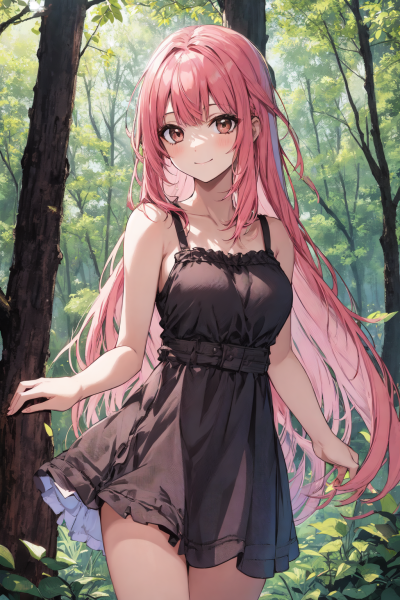
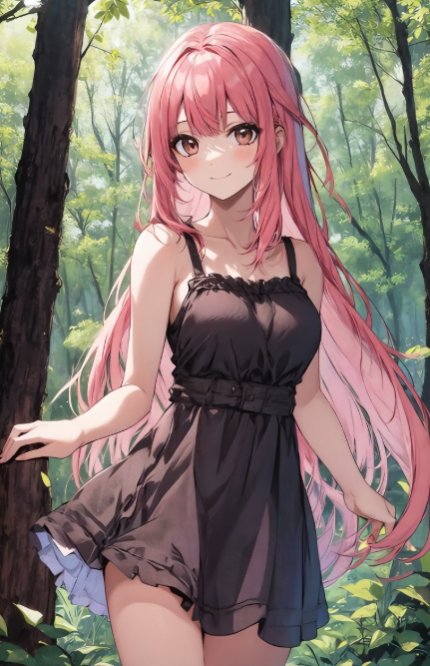
feat(editor): 剧本选择框加宽、关闭键移至最右；默认 eldoria 肖像改用 AppData 玩家版本并移除旧 svg
- 剧本编辑器头部 select 加宽（max-width 320px / min-width 240px）
- 头部按钮顺序：新建 → 另存为 → 删除 → Revert → 保存剧本包 → 关闭（关闭在最右）
- stories/default/eldoria.json 的 rowan/vex portraitRef 从 .svg 改为 .png，并复制 AppData 中用户上传的三张肖像（seraphina/rowan/vex）覆盖默认资产目录，删除 rowan.svg/vex.svg

diff --git a/public/index.html b/public/index.html
@@ -12,7 +12,7 @@
 <dialog id="connection-modal"><form method="dialog"><header><h3>模型连接</h3><button type="button" data-dialog-close>关闭</button></header><p id="provider-unconfigured-hint" class="provider-unconfigured-hint" hidden>⚠ 尚未配置可用的模型供应商。请先点「管理供应商」新建并填写 API Key，否则无法使用模型功能。</p><label>默认角色服务<select id="provider-select"></select></label><label>默认角色模型<select id="model-select"></select></label><label>导演服务<select id="director-provider-select"></select></label><label>导演模型<select id="director-model-select"></select></label><label>导演思维链<select id="director-thinking"><option value="off">关闭</option><option value="brief">简略</option><option value="standard">标准</option><option value="deep">深度</option></select></label><button id="refresh-models" value="default">获取可用模型</button><div class="provider-form-actions"><button id="provider-manage" type="button">管理供应商</button></div></form></dialog><dialog id="provider-manager-modal"><div class="provider-manager-panel"><header><h3>配置供应商</h3><button type="button" id="provider-manager-back">返回</button></header><div class="provider-manager-toolbar"><button type="button" id="provider-create" class="primary">＋ 新建供应商</button></div><div id="provider-list" class="provider-list"><p class="hint">加载中…</p></div></div></dialog><dialog id="provider-edit-modal"><form method="dialog"><header><h3 id="provider-edit-title">新建供应商</h3><button type="button" data-dialog-close>关闭</button></header><label>配置名称<input id="provider-name" placeholder="如：DeepSeek 官方"></label><label>接口地址<input id="provider-url" placeholder="https://api.example.com/v1"></label><label>API Key<input id="provider-key" type="password" autocomplete="off" placeholder="输入 API Key"></label><label>模型列表（逗号分隔）<input id="provider-models" placeholder="model-a,model-b"></label><label>返回格式<select id="provider-format"><option value="json_object">JSON 对象</option><option value="json_schema">严格 JSON Schema</option><option value="none">不指定</option></select></label><div class="provider-form-actions"><button id="provider-save" value="default">保存</button></div></form></dialog>
 <dialog id="player-modal"><form method="dialog"><header><h3>玩家角色</h3><button type="button" data-dialog-close>关闭</button></header><div class="inspector-body"><aside class="inspector-portrait-panel"><h4>主角肖像</h4><img id="player-avatar-preview" src="/assets/default.svg" onerror="this.onerror=null;this.src='/assets/default.svg'"><div class="avatar-upload-buttons"><button type="button" id="player-avatar-upload">上传图片</button><button type="button" id="player-avatar-url">从 URL 导入</button></div><input type="file" id="player-avatar-file" accept="image/*" hidden><p class="hint">方形原图；左栏与对话中显示为圆形头像。</p></aside><div class="inspector-fields"><label>姓名<input id="player-name"></label><label>人设<textarea id="player-persona"></textarea></label><label>当前状态<textarea id="player-state"></textarea></label><p class="hint">修改用于后续回合的玩家上下文。</p><div class="role-modal-footer"><button id="player-save" type="button" value="default">保存</button></div></div></div></form></dialog>
 <dialog id="story-modal"><form method="dialog"><header><h3>剧本与存档</h3><button type="button" data-dialog-close>关闭</button></header><label>剧本<select id="story-select"></select></label><label>游玩模式<select id="room-mode-select"><option value="director">导演模式（Director 编织场景，现行流程）</option><option value="chat">群聊模式（无导演：点角色发言→审批→在场角色记入记忆）</option></select></label><label class="settings-row">沉浸模式（跳过审批，AI 主导：输入后自动走完并发布）<input id="room-auto-publish" type="checkbox"></label><div class="story-modal-actions"><button id="restart" value="default">重开剧本</button><button id="edit-story" value="default">剧本编辑器</button><button id="sync-roles" value="default">同步当前人物到初始剧本</button></div><hr><h4 class="section-title">存档</h4><label>存档名<input id="archive-name" placeholder="留空自动命名：剧本名-模式-编号"></label><button id="save-archive" value="default">保存存档</button><div class="archive-section"><h4 class="section-title">存档列表</h4><div id="archive-list"><p class="hint">加载中…</p></div></div><label class="load-label">上传旧存档读档<input id="load-archive" type="file" accept="application/json"></label></form></dialog>
-<dialog id="story-edit-modal" aria-labelledby="story-edit-heading"><form method="dialog" class="creator-workbench-form"><header class="creator-workbench-header"><div><span class="eyebrow">CREATOR WORKBENCH</span><h3 id="story-edit-heading">创作者工作台</h3></div><label class="creator-workbench-story-pick">剧本<select id="story-edit-select"></select></label><div class="creator-workbench-actions"><button id="story-new" type="button">＋ 新建剧本</button><button id="story-save-as" type="button">另存为</button><button id="story-delete" type="button">删除剧本</button><button id="story-edit-close" type="button" data-dialog-close>关闭</button><button id="creator-revert" type="button" disabled>Revert</button><button id="story-edit-save" type="submit">保存剧本包</button></div></header><div class="creator-workbench-grid"><aside class="creator-tree" aria-label="剧本结构"><h4>剧本结构</h4><p id="story-edit-id" class="story-edit-id"></p><nav id="creator-story-tree"><button type="button" class="tree-item active" data-workbench-target="story-package">▣ 剧本包</button><button type="button" class="tree-item" data-workbench-target="opening">◌ 开场</button><button type="button" class="tree-item" data-workbench-target="scenes">▤ 场景与角色</button><button type="button" class="tree-item" data-workbench-target="lore">⌁ 世界书</button></nav><div class="creator-tree-footer"><button id="story-role-add" type="button" class="small-btn">＋ 新增角色</button><button id="story-lore-add" type="button" class="small-btn">＋ 新增世界书</button><button id="creator-import-card" type="button" class="small-btn">导入 ST 角色卡</button></div></aside><section class="creator-editor" aria-label="剧本包编辑器"><section id="creator-section-story-package" class="creator-section"><div class="creator-section-heading"><div><span class="eyebrow">PACKAGE</span><h4>剧本包</h4></div><span class="creator-save-state" id="creator-save-state">未加载</span></div><div class="creator-field-grid"><label>标题<input id="story-edit-title" autocomplete="off"></label><label>场景时间<input id="story-edit-scene-time" placeholder="例如：深夜"></label><label>场景地点<input id="story-edit-scene-location" placeholder="例如：旧钟旅店"></label></div><label>玩家角色名<input id="story-edit-player-name"></label><label>玩家人设<textarea id="story-edit-player-persona"></textarea></label><label>玩家当前状态<textarea id="story-edit-player-state"></textarea></label></section><section id="creator-section-opening" class="creator-section"><div class="creator-section-heading"><div><span class="eyebrow">OPENING</span><h4>开场文本</h4></div></div><label><span class="sr-only">开场文本</span><textarea id="story-edit-opening" class="creator-opening" placeholder="写下故事开场…"></textarea></label></section><section id="creator-section-scenes" class="creator-section"><div class="creator-section-heading"><div><span class="eyebrow">CAST</span><h4>场景与角色</h4></div></div><p class="hint">编辑当前剧本中的角色；拖动卡片可调整初始顺序。</p><div id="story-roles-grid"></div></section><section id="creator-section-lore" class="creator-section"><div class="creator-section-heading"><div><span class="eyebrow">WORLDBOOK</span><h4>世界书</h4></div></div><p class="hint">条目可设为常开，或限制给指定角色。</p><div id="story-lore-list"></div></section></section><aside class="creator-preview" aria-label="Agent 与提取预览"><div class="creator-section-heading"><div><span class="eyebrow">DSH STORY EDITOR</span><h4>DSH 剧情编辑助手</h4></div><span id="creator-preview-status" class="creator-status empty">未连接</span></div><div class="creator-agent-session-bar"><span id="creator-session-label">尚未选择会话</span><button id="creator-session-open" type="button" title="选择或新建 DSH 会话">会话</button><button id="creator-session-refresh" type="button" title="重新读取当前剧本文件">刷新</button><button id="creator-session-model" type="button" disabled title="选择当前 DSH 会话模型">模型</button><button id="creator-session-close" type="button" disabled title="关闭当前 DSH 会话">关闭</button></div><div class="creator-session-model-label" id="creator-session-model-label" hidden></div><div id="creator-agent-preview" class="creator-empty-state"><strong>尚未连接 DSH 会话</strong><p>选择或新建会话后，可以直接让 DSH 协助编辑当前剧本。DSH 修改文件后请刷新剧本以读取最新内容。</p></div><div id="creator-session-chat" class="creator-session-chat"><div id="creator-session-messages" class="creator-session-messages"></div><textarea id="creator-session-input" aria-label="玩家交流" placeholder="和 DSH 交流剧情、角色或修改方向…"></textarea><button id="creator-session-send" type="button">发送</button></div></aside></div></form></dialog><dialog id="settings-modal"><form method="dialog"><header><h3>设置</h3><button type="button" data-dialog-close>关闭</button></header><label class="settings-row">显示思维链<input id="show-thinking" type="checkbox"></label><label class="settings-row">自动展开思维链<input id="auto-expand-thinking" type="checkbox"></label><p class="hint">思维链显示模型推理过程，仅用于查看，不影响剧情正文。</p><label class="settings-row">沉浸模式（跳过审批，AI 主导）<input id="settings-auto-publish" type="checkbox"></label><p class="hint">开启后：提交输入自动走完角色决策→草稿→发布，玩家只读结果；可随时关回审批模式，当前回合完成后生效。</p><label class="settings-row">显示 token 计数小字<input id="settings-token-count" type="checkbox"></label><p class="hint">在各类正文后附小字用量（角色=蓝、导演=金、咨询=紫、场景=灰），不会写入剧情正文。</p><label class="settings-row">显示运行摘要<input id="settings-debug" type="checkbox"></label><p class="hint">在页面底部显示模型请求 / 工具回退等运行摘要。</p><button id="prompts-edit" type="button">编辑角色/导演提示词</button><button id="st-import-open" type="button">导入 ST 角色卡…</button><hr><h4 class="section-title">手机远程配对</h4><p class="hint">远程访问必须在启动配置中预先开启；这里不能改变监听地址或安全策略。</p><button id="remote-pairing-code" type="button">生成手机配对码</button><div id="remote-pairing-result" hidden><strong id="remote-pairing-value"></strong><p id="remote-pairing-expiry" class="hint"></p></div><p id="remote-pairing-error" class="hint"></p></form></dialog>
+<dialog id="story-edit-modal" aria-labelledby="story-edit-heading"><form method="dialog" class="creator-workbench-form"><header class="creator-workbench-header"><div><span class="eyebrow">CREATOR WORKBENCH</span><h3 id="story-edit-heading">创作者工作台</h3></div><label class="creator-workbench-story-pick">剧本<select id="story-edit-select"></select></label><div class="creator-workbench-actions"><button id="story-new" type="button">＋ 新建剧本</button><button id="story-save-as" type="button">另存为</button><button id="story-delete" type="button">删除剧本</button><button id="creator-revert" type="button" disabled>Revert</button><button id="story-edit-save" type="submit">保存剧本包</button><button id="story-edit-close" type="button" data-dialog-close>关闭</button></div></header><div class="creator-workbench-grid"><aside class="creator-tree" aria-label="剧本结构"><h4>剧本结构</h4><p id="story-edit-id" class="story-edit-id"></p><nav id="creator-story-tree"><button type="button" class="tree-item active" data-workbench-target="story-package">▣ 剧本包</button><button type="button" class="tree-item" data-workbench-target="opening">◌ 开场</button><button type="button" class="tree-item" data-workbench-target="scenes">▤ 场景与角色</button><button type="button" class="tree-item" data-workbench-target="lore">⌁ 世界书</button></nav><div class="creator-tree-footer"><button id="story-role-add" type="button" class="small-btn">＋ 新增角色</button><button id="story-lore-add" type="button" class="small-btn">＋ 新增世界书</button><button id="creator-import-card" type="button" class="small-btn">导入 ST 角色卡</button></div></aside><section class="creator-editor" aria-label="剧本包编辑器"><section id="creator-section-story-package" class="creator-section"><div class="creator-section-heading"><div><span class="eyebrow">PACKAGE</span><h4>剧本包</h4></div><span class="creator-save-state" id="creator-save-state">未加载</span></div><div class="creator-field-grid"><label>标题<input id="story-edit-title" autocomplete="off"></label><label>场景时间<input id="story-edit-scene-time" placeholder="例如：深夜"></label><label>场景地点<input id="story-edit-scene-location" placeholder="例如：旧钟旅店"></label></div><label>玩家角色名<input id="story-edit-player-name"></label><label>玩家人设<textarea id="story-edit-player-persona"></textarea></label><label>玩家当前状态<textarea id="story-edit-player-state"></textarea></label></section><section id="creator-section-opening" class="creator-section"><div class="creator-section-heading"><div><span class="eyebrow">OPENING</span><h4>开场文本</h4></div></div><label><span class="sr-only">开场文本</span><textarea id="story-edit-opening" class="creator-opening" placeholder="写下故事开场…"></textarea></label></section><section id="creator-section-scenes" class="creator-section"><div class="creator-section-heading"><div><span class="eyebrow">CAST</span><h4>场景与角色</h4></div></div><p class="hint">编辑当前剧本中的角色；拖动卡片可调整初始顺序。</p><div id="story-roles-grid"></div></section><section id="creator-section-lore" class="creator-section"><div class="creator-section-heading"><div><span class="eyebrow">WORLDBOOK</span><h4>世界书</h4></div></div><p class="hint">条目可设为常开，或限制给指定角色。</p><div id="story-lore-list"></div></section></section><aside class="creator-preview" aria-label="Agent 与提取预览"><div class="creator-section-heading"><div><span class="eyebrow">DSH STORY EDITOR</span><h4>DSH 剧情编辑助手</h4></div><span id="creator-preview-status" class="creator-status empty">未连接</span></div><div class="creator-agent-session-bar"><span id="creator-session-label">尚未选择会话</span><button id="creator-session-open" type="button" title="选择或新建 DSH 会话">会话</button><button id="creator-session-refresh" type="button" title="重新读取当前剧本文件">刷新</button><button id="creator-session-model" type="button" disabled title="选择当前 DSH 会话模型">模型</button><button id="creator-session-close" type="button" disabled title="关闭当前 DSH 会话">关闭</button></div><div class="creator-session-model-label" id="creator-session-model-label" hidden></div><div id="creator-agent-preview" class="creator-empty-state"><strong>尚未连接 DSH 会话</strong><p>选择或新建会话后，可以直接让 DSH 协助编辑当前剧本。DSH 修改文件后请刷新剧本以读取最新内容。</p></div><div id="creator-session-chat" class="creator-session-chat"><div id="creator-session-messages" class="creator-session-messages"></div><textarea id="creator-session-input" aria-label="玩家交流" placeholder="和 DSH 交流剧情、角色或修改方向…"></textarea><button id="creator-session-send" type="button">发送</button></div></aside></div></form></dialog><dialog id="settings-modal"><form method="dialog"><header><h3>设置</h3><button type="button" data-dialog-close>关闭</button></header><label class="settings-row">显示思维链<input id="show-thinking" type="checkbox"></label><label class="settings-row">自动展开思维链<input id="auto-expand-thinking" type="checkbox"></label><p class="hint">思维链显示模型推理过程，仅用于查看，不影响剧情正文。</p><label class="settings-row">沉浸模式（跳过审批，AI 主导）<input id="settings-auto-publish" type="checkbox"></label><p class="hint">开启后：提交输入自动走完角色决策→草稿→发布，玩家只读结果；可随时关回审批模式，当前回合完成后生效。</p><label class="settings-row">显示 token 计数小字<input id="settings-token-count" type="checkbox"></label><p class="hint">在各类正文后附小字用量（角色=蓝、导演=金、咨询=紫、场景=灰），不会写入剧情正文。</p><label class="settings-row">显示运行摘要<input id="settings-debug" type="checkbox"></label><p class="hint">在页面底部显示模型请求 / 工具回退等运行摘要。</p><button id="prompts-edit" type="button">编辑角色/导演提示词</button><button id="st-import-open" type="button">导入 ST 角色卡…</button><hr><h4 class="section-title">手机远程配对</h4><p class="hint">远程访问必须在启动配置中预先开启；这里不能改变监听地址或安全策略。</p><button id="remote-pairing-code" type="button">生成手机配对码</button><div id="remote-pairing-result" hidden><strong id="remote-pairing-value"></strong><p id="remote-pairing-expiry" class="hint"></p></div><p id="remote-pairing-error" class="hint"></p></form></dialog>
 <dialog id="creator-session-modal"><form method="dialog"><header><h3>选择 DSH 会话</h3><button type="button" data-dialog-close>关闭</button></header><p class="hint">会话由 DSH 原生机制管理，当前剧本会作为上下文。</p><div id="creator-session-list" class="creator-session-list"><p class="hint">加载中…</p></div><div class="story-modal-actions"><button id="creator-session-new" type="button">新建会话</button><button id="creator-session-cancel" type="button" data-dialog-close>取消</button></div></form></dialog><dialog id="creator-session-model-modal"><form method="dialog"><header><h3>选择会话模型</h3><button type="button" data-dialog-close>关闭</button></header><label>供应商<select id="creator-session-provider"></select></label><label>模型<select id="creator-session-model-select"></select></label><label>思维强度<input id="creator-session-reasoning" placeholder="可选，由 DSH 宿主解释"></label><div class="story-modal-actions"><button id="creator-session-model-save" type="button">应用模型</button><button type="button" data-dialog-close>取消</button></div></form></dialog><dialog id="st-import-modal"><div class="st-import-panel"><h3>导入 ST 角色卡</h3><p class="hint">支持 SillyTavern 的 .json 卡（chara_card_v2/v3）或 .png 内嵌卡（点击下方文件上传）。导入为当前房间的新角色，角色书条目成为世界书（全量注入）。</p><input type="file" id="st-import-file" accept=".json,.png,application/json,image/png"><div class="archive-section"><h4 class="section-title">导入预览</h4><div id="st-import-preview"><p class="hint">选择文件后显示解析结果。</p></div></div><div class="story-modal-actions"><button id="st-import-run" type="button" disabled>导入为角色</button><button id="st-import-close" type="button">关闭</button></div></div></dialog><dialog id="prompts-modal"><form method="dialog"><header><h3>提示词编辑</h3><button id="prompts-close" type="button" data-dialog-close>关闭</button></header><p class="hint">core prompts 为随仓库发布的默认提示词模板（工具协议）。选择下方 custom 提示词文件后可直接编辑，保存会写入所选文件，仅本机生效、不上传。</p><label>提示词文件<select id="prompt-file-select"></select></label><div class="prompt-file-actions"><button id="prompt-new" type="button">新建</button><button id="prompt-rename" type="button">重命名</button><button id="prompt-delete" type="button">删除</button></div><p id="prompt-core-note" class="hint">core prompts 为默认模板，不在本页编辑；如需调整协议模板，请直接编辑 prompts/prompts.json（随仓库发布）。</p><label>导演提示词<textarea id="prompt-director" class="prompt-textarea" placeholder="注入导演系统提示的私有段（空 = 不附加）"></textarea></label><label>角色提示词<textarea id="prompt-role" class="prompt-textarea" placeholder="注入每个角色系统提示的私有段（空 = 不附加）"></textarea></label><div class="prompts-footer"><button id="prompts-save" value="default">保存</button></div></form></dialog>
 <dialog id="role-modal"><form method="dialog"><header><h3 id="role-modal-title">角色设置</h3><button id="inspector-close" type="button" data-dialog-close>关闭</button></header><input type="hidden" id="inspector-role-id"><div class="inspector-body"><aside class="inspector-portrait-panel"><h4>肖像</h4><img id="inspector-avatar-preview" src="/assets/default.svg"><div class="avatar-upload-buttons"><button id="inspector-avatar-upload" type="button">上传图片</button><button id="inspector-avatar-url" type="button">从 URL 导入</button></div><input type="file" id="inspector-avatar-file" accept="image/*" hidden><p class="hint">方形原图；左栏与对话气泡使用圆形头像。</p></aside><div class="inspector-fields"><nav class="inspector-tabs" aria-label="角色信息标签"><button type="button" class="inspector-tab active" data-inspector-tab="basic">基础</button><button type="button" class="inspector-tab" data-inspector-tab="memory">记忆</button><button type="button" class="inspector-tab" data-inspector-tab="relations">关系</button><button type="button" class="inspector-tab" data-inspector-tab="model">模型</button></nav><div class="inspector-row"><label>供应商<select id="inspector-provider"></select></label><label>模型<select id="inspector-model"></select></label><label>思维链<select id="inspector-thinking"><option value="off">关闭</option><option value="brief">简略</option><option value="standard">标准</option><option value="deep">深度</option></select></label></div><section class="inspector-panel" data-inspector-panel="basic"><div id="inspector-story-fields" hidden><div class="inspector-row"><label>名字<input id="inspector-story-name"></label><label>在场状态<select id="inspector-story-presence"><option value="present">在场</option><option value="absent">不在场</option><option value="unavailable">不可用</option></select></label></div><label>头像路径<input id="inspector-story-avatar" placeholder="/assets/xxx.png"></label><label>当前状态<textarea id="inspector-story-state"></textarea></label></div><div class="inspector-two-col"><label>人设<textarea id="inspector-self-model"></textarea></label></div></section><section class="inspector-panel" data-inspector-panel="memory"><div id="inspector-memory-structured" class="memory-record-list"></div></section><section class="inspector-panel" data-inspector-panel="relations"><div class="inspector-impressions-wrap"><h4>关系与印象</h4><div id="inspector-impressions-list"></div><button type="button" id="inspector-impression-add">新增印象</button></div></section><section class="inspector-panel" data-inspector-panel="model"><p class="hint">供应商、模型和思维链设置位于上方。</p></section><section class="inspector-panel" data-inspector-panel="basic"><div class="inspector-goals-wrap"><label class="inspector-goals-label">长期目标<textarea id="inspector-goals" placeholder="一行一个目标，私密仅角色自己知道；可留空&#10;例如：夺回被夺走的领地&#10;例如：查明父亲的死因"></textarea><small class="hint">独立字段，不再靠人设里的「===== 长期目标 =====」私有段文本解析。</small></label></div><div class="inspector-impressions-wrap"><h5 class="field-title">他人印象 <small>（姓名 → 印象；角色会在剧情中自行更新）</small></h5><div id="inspector-impressions-list"><p class="hint">暂无印象</p></div><button id="inspector-impression-add" type="button" class="small-btn">＋ 添加印象</button></div></div></div><div class="role-modal-footer"><button id="inspector-save" type="button" value="default">保存</button><button id="inspector-sync-story" type="button">同步此角色到剧本</button><button id="inspector-delete" type="button" class="danger">删除角色</button></div></form></dialog><dialog id="lore-modal"><form method="dialog"><header><h3 id="lore-modal-title">世界书条目</h3><button type="button" data-dialog-close>关闭</button></header><input type="hidden" id="lore-index" value="-1"><label>名称<input id="lore-name"></label><label>内容<textarea id="lore-content" placeholder="条目正文，将注入相关角色的上下文…"></textarea></label><label>关联角色（角色 id，逗号分隔；留空 = 常开）<input id="lore-roles" placeholder="aria, mira"></label><p class="hint">常开条目注入所有角色；指定角色后仅注入对应角色。保存会更新整份世界书。</p><button id="lore-save" value="default">保存</button></form></dialog><dialog id="story-edit-modal"><form method="dialog"><header><h3>编辑原始剧本 <small id="story-edit-id" class="story-edit-id"></small></h3><button type="button" data-dialog-close>关闭</button></header><label>标题<input id="story-edit-title"></label><label>开场<textarea id="story-edit-opening"></textarea></label><div class="inspector-row"><label>场景时间<input id="story-edit-scene-time" placeholder="如：夜晚"></label><label>场景地点<input id="story-edit-scene-location" placeholder="如：祭典主厅"></label></div><h4 class="section-title">玩家角色</h4><label>姓名<input id="story-edit-player-name"></label><label>人设<textarea id="story-edit-player-persona"></textarea></label><label>当前状态<textarea id="story-edit-player-state"></textarea></label><h4 class="section-title">角色 <small>（点击卡片编辑；拖拽调整顺序）</small></h4><div id="story-roles-grid"></div><button id="story-role-add" type="button" class="small-btn">＋ 添加角色</button><h4 class="section-title">世界书 <small>（拖拽调整顺序，顺序即注入顺序）</small></h4><div id="story-lore-list"></div><button id="story-lore-add" type="button" class="small-btn">＋ 添加条目</button><p class="hint">保存将直接写回磁盘原始剧本文件，与运行中的房间相互独立；重开剧本时生效。</p><button id="story-edit-save" value="default">保存到磁盘</button></form></dialog><dialog id="create-role-modal"><form method="dialog"><header><h3>新建人物</h3><button type="button" data-dialog-close>关闭</button></header><div class="avatar-panel create-avatar"><h4 class="field-title">肖像 <small>不指定则用默认</small></h4><img id="new-role-avatar-preview" src="/assets/default.svg" onerror="this.onerror=null;this.src='/assets/default.svg'"><div class="avatar-upload-buttons"><button type="button" id="new-role-avatar-upload">上传图片</button><button type="button" id="new-role-avatar-url">从 URL 导入</button></div><input type="file" id="new-role-avatar-file" accept="image/*" hidden></div><label>名称<input id="new-role-name" placeholder="如：女仆"></label><label>人设<textarea id="new-role-self-model" placeholder="性格、背景、说话方式…"></textarea></label><label>当前状态<textarea id="new-role-state" placeholder="可选，默认「刚刚进入当前场景。」"></textarea></label><label>在场<select id="new-role-presence"><option value="present">在场</option><option value="absent">离场</option></select></label><label>长期目标<textarea id="new-role-goals" placeholder="一行一个，私密仅角色自己知道；可留空"></textarea></label><label>初始记忆<textarea id="new-role-memory" placeholder="【未标注时间】&#10;- 初始记忆"></textarea></label><button id="create-role-save" value="default">保存</button></form></dialog><pre id="debug-stream" hidden></pre>
 <script type="module" src="/app.js"></script>

diff --git a/public/style.css b/public/style.css
@@ -314,5 +314,5 @@ label.settings-row input[type=checkbox]{width:auto;margin:0}
 
 /* ── 剧本编辑器：剧本切换选择框 ── */
 .creator-workbench-story-pick{display:inline-flex;align-items:center;gap:6px;color:#a9b8dd;font-size:12px;white-space:nowrap;flex-shrink:0}
-.creator-workbench-story-pick select{max-width:170px;padding:4px 6px;border:1px solid #3a4a6e;border-radius:3px;background:#16203a;color:#dce7ff}
+.creator-workbench-story-pick select{max-width:320px;min-width:240px;padding:4px 6px;border:1px solid #3a4a6e;border-radius:3px;background:#16203a;color:#dce7ff}
 @media (max-width:680px){.creator-workbench-story-pick{display:none}}
